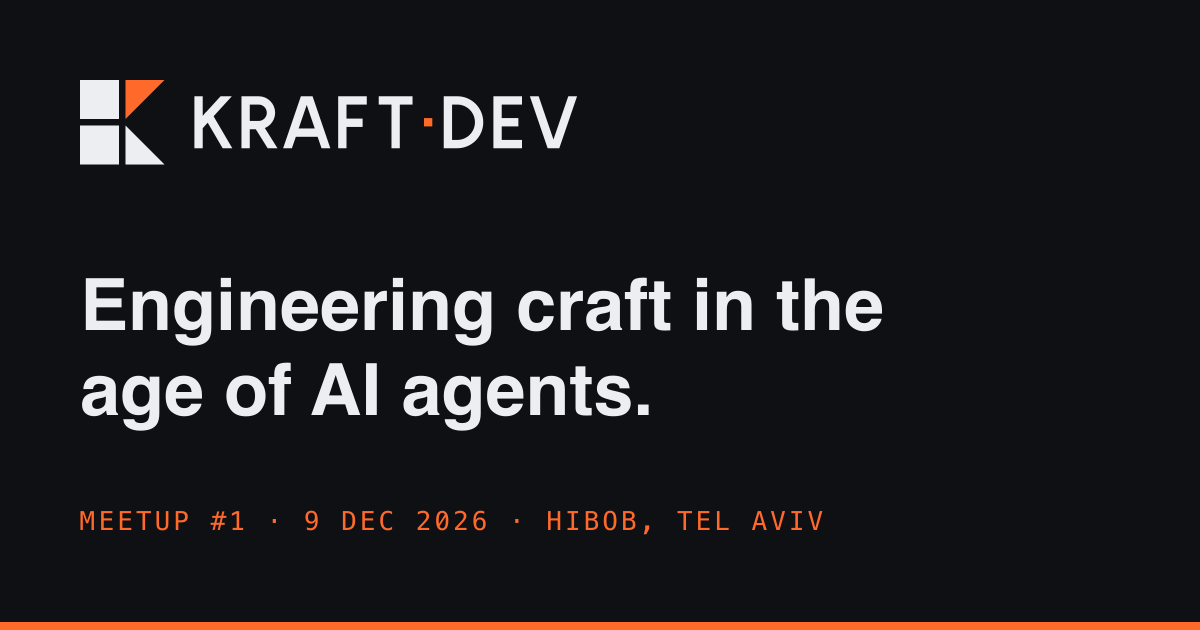
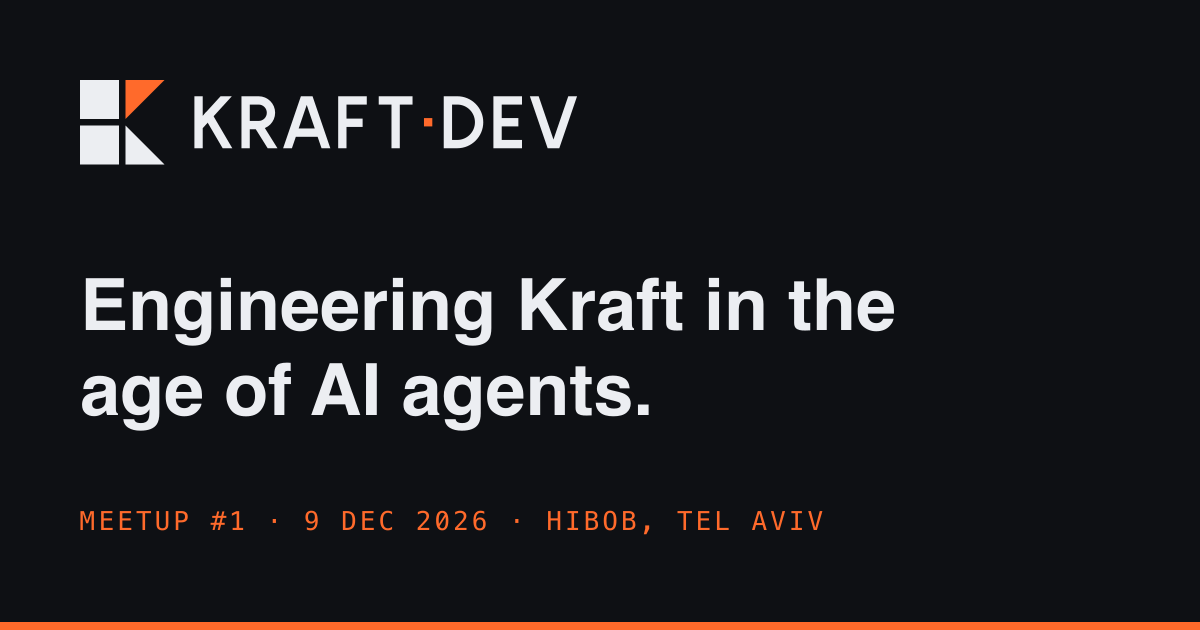
Kraft with a K everywhere; footer; agenda wrap-up

Changed region(s): [[0.4317, 0.4222, 0.7708, 0.5429]]

diff --git a/src/site.config.ts b/src/site.config.ts
@@ -5,7 +5,7 @@
 export const site = {
   name: 'Kraft Dev',
   url: 'https://kraft.dev',
-  tagline: 'Engineering craft in the age of AI agents',
+  tagline: 'Engineering Kraft in the age of AI agents',
   description:
     'Kraft Dev is a monthly in-person meetup in Tel Aviv for engineers, engineering leaders and product builders: engineering craft in the age of AI agents.',
 } as const;

diff --git a/flyer/flyer.html b/flyer/flyer.html
@@ -223,7 +223,7 @@
 
   <section class="hero">
     <p class="label">Kraft Dev #1</p>
-    <h1>Engineering Craft in the Age of AI Agents</h1>
+    <h1>Engineering Kraft in the Age of AI Agents</h1>
     <div class="meta">
       <span>Wednesday 9 December 2026 · 17:00</span>
       <span class="venue">HiBob, Tel Aviv</span>
